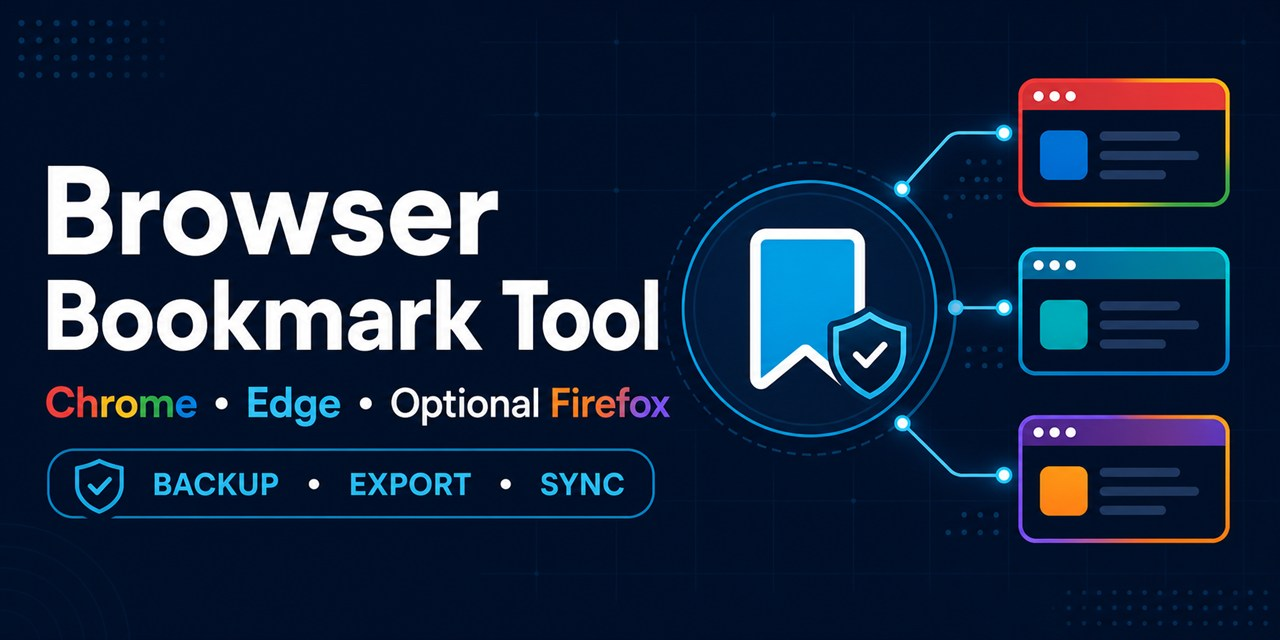
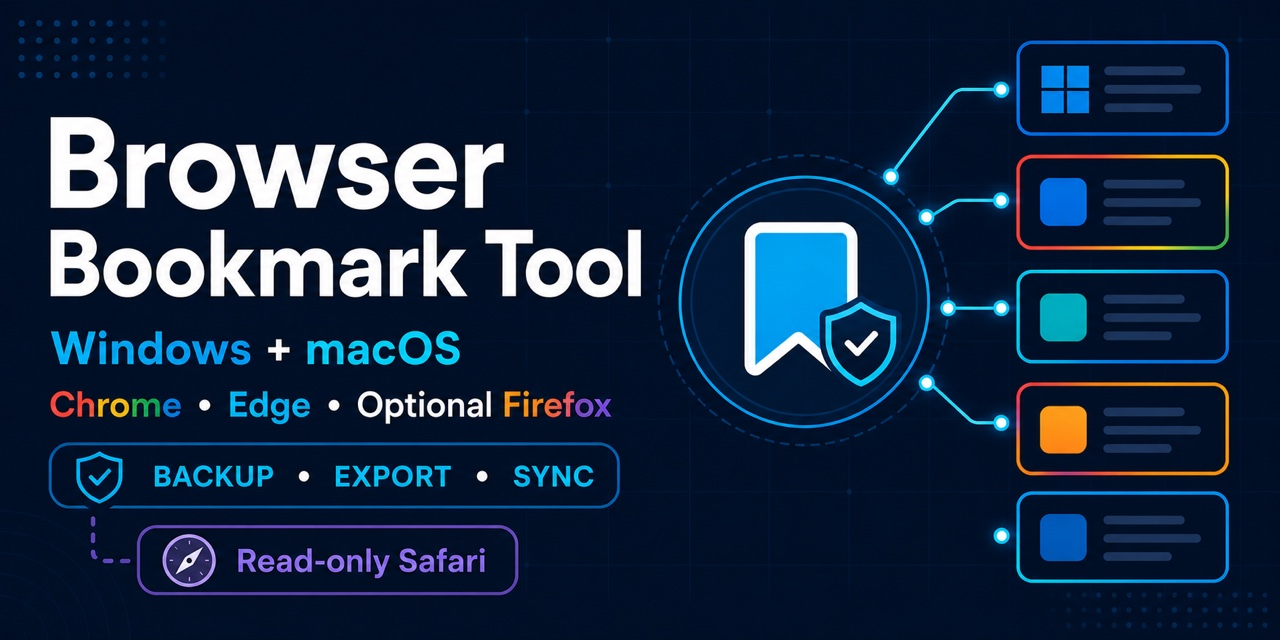
Update macOS and Safari coverage (#16)
## Summary

- replace the repository social preview with a 1280×640 image showing
Windows and macOS coverage
- identify Safari as a read-only workflow rather than a synchronization
write target
- add an explicit platform/browser support matrix
- update support, contribution, issue, and pull-request guidance for
macOS
- add a cache-busting README image reference so GitHub renders the
refreshed asset

## Why

The repository implemented native macOS support and read-only Safari
workflows, but several public-facing files and the existing social
preview still described or depicted Windows-only coverage. The live
README continued to show that older committed image because the
refreshed asset existed only locally.

## Validation

- 154 tests passed
- Ruff passed
- Python compilation passed
- macOS shell launcher smoke test passed
- `git diff --check` passed
- social preview verified as JPEG, 1280×640, 209,513 bytes

Changed region(s): [[0.0312, 0.0625, 0.9688, 0.9375]]

diff --git a/CONTRIBUTING.md b/CONTRIBUTING.md
@@ -1,6 +1,6 @@
 # Contributing
 
-Browser Bookmark Tool is a Windows-only Python application. Contributions should preserve its backup-first, add-only synchronization behavior unless a change explicitly redesigns that contract.
+Browser Bookmark Tool is a Windows and macOS Python application. It supports Chrome and Edge synchronization, optional Firefox import/export, and read-only Safari workflows on macOS. Contributions should preserve its backup-first, add-only synchronization behavior and Safari's no-write boundary unless a change explicitly redesigns those contracts.
 
 ## Before opening an issue
 
@@ -15,9 +15,11 @@ Browser Bookmark Tool is a Windows-only Python application. Contributions should
 py -m pip install -e ".[dev]"
 py -m pytest -q
 py -m ruff check .
-py -m py_compile browser_bookmark_sync.py test_sync.py
+py -m py_compile browser_bookmark_sync.py safari_adapter.py test_sync.py
 py -m browser_bookmark_sync --help
 ```
+
+On macOS, use `python3` in place of `py` and run `./run-browser-bookmark-tool.sh --help` as an additional launcher check.
 
 Run the standalone build when a change affects packaging, startup, or command-line behavior:
 
@@ -47,7 +49,7 @@ Release tags use `vMAJOR.MINOR.PATCH`, such as `v0.3.0`.
 - Add or update tests for behavior changes.
 - Update `README.md`, `assessment.md`, and `changelog.md` when behavior, configuration, packaging, or project status changes.
 - Update `future-upgrades.md` and `completed-upgrades.md` when a tracked upgrade is completed.
-- Confirm the Windows CI workflow passes on every supported Python version.
+- Confirm the cross-platform CI workflow passes, including the Windows Python matrix and native macOS test/build job.
 - Do not commit generated executables, build output, browser data, mappings, logs, results, health history, or scheduler files.
 
 Pull requests are squash merged. Write the title so it can serve as the final commit message.

diff --git a/README.md b/README.md
@@ -1,6 +1,6 @@
 # Browser Bookmark Tool
 
-![Browser Bookmark Tool social preview](.github/social-preview.jpg)
+![Browser Bookmark Tool — Windows and macOS with read-only Safari support](.github/social-preview.jpg?v=20260810)
 
 [![Cross-platform CI](https://github.com/mickpletcher/browser-bookmark-tool/actions/workflows/ci.yml/badge.svg)](https://github.com/mickpletcher/browser-bookmark-tool/actions/workflows/ci.yml)
 [![License: MIT](https://img.shields.io/badge/license-MIT-blue.svg)](LICENSE)
@@ -16,6 +16,13 @@ Version: 0.3.0
 Release readiness: Source ready; trusted signing credential required for binary release
 
 The GUI, CLI, transactional workflow, browser safeguards, shell and PowerShell entrypoints, schedulers, and native smoke builds remain implemented across the supported platforms. They can also discover, preview, back up, organize, merge, and export Safari bookmarks on macOS without writing to Safari. Direct Safari writes remain open under `FUT-011`. Safari may synchronize bookmark changes through iCloud; this delivery does not attempt any Safari or iCloud modification. Windows signing and macOS signing/notarization remain distribution requirements.
+
+| Platform | Chrome and Edge | Firefox | Safari | Distribution |
+| --- | --- | --- | --- | --- |
+| Windows 11 | Backup, export, and synchronization | Optional import/export, verification, and restore | Not applicable | Source ready; signed binary pending |
+| macOS | Backup, export, and synchronization | Optional import/export, verification, and restore | Read-only discovery, backup, preview, merge/export, and guided manual HTML import | Source ready; signed/notarized binary pending |
+
+Safari is not a synchronization write target. The tool does not modify `Bookmarks.plist`, control Safari, or write through an undocumented Apple interface.
 
 - [Current assessment](assessment.md)
 - [Changelog](changelog.md)

diff --git a/SUPPORT.md b/SUPPORT.md
@@ -6,9 +6,9 @@ Read [README.md](README.md) and [SCHEDULING.md](SCHEDULING.md) first. If the pro
 
 Include:
 
-- Windows version
+- Operating system and version (Windows or macOS)
 - Python version or standalone executable version
-- Chrome, Edge, and Firefox versions when applicable
+- Chrome, Edge, Firefox, and Safari versions when applicable
 - The command or GUI action used
 - Expected and actual behavior
 - Sanitized error text
@@ -17,7 +17,11 @@ Do not attach browser `Bookmarks` files, backup files, profile mappings, schedul
 
 ## Scope
 
-The current release supports Chrome and Microsoft Edge on Windows, plus disabled-by-default Firefox import and opt-in export. Native macOS and Safari support are not implemented. Direct Firefox recovery verification and restore remain planned work in [future-upgrades.md](future-upgrades.md).
+The current release supports Chrome and Microsoft Edge on Windows and macOS, plus disabled-by-default Firefox import and opt-in export on both platforms. Firefox recovery verification and restore are also supported on Windows and macOS.
+
+On macOS, Safari support is deliberately read-only: the tool can discover, validate, back up, preview, organize, merge, and export bookmarks from Safari's version 1 bookmark plist. It excludes Reading List entries and can prepare a validated HTML file for a user-controlled Safari import. It never edits Safari's live data or automates the final import. Direct Safari writes and signed/notarized macOS distribution remain planned work in [future-upgrades.md](future-upgrades.md).
+
+Source installations are supported on Windows 11 and current supported macOS releases. CI tests both platforms and creates native smoke builds. Public binaries are not available until the applicable platform signing requirements are complete.
 
 Support is best effort. There is no guaranteed response time.
 

diff --git a/.github/pull_request_template.md b/.github/pull_request_template.md
@@ -6,12 +6,14 @@ Describe the change and why it is needed.
 
 - [ ] `py -m pytest -q`
 - [ ] `py -m ruff check .`
-- [ ] `py -m py_compile browser_bookmark_sync.py test_sync.py`
+- [ ] `py -m py_compile browser_bookmark_sync.py safari_adapter.py test_sync.py`
 - [ ] `py -m browser_bookmark_sync --help`
+- [ ] On macOS: `./run-browser-bookmark-tool.sh --help`
 - [ ] Standalone build checked when packaging, startup, or CLI behavior changed
 
 ## Safety and documentation
 
 - [ ] No bookmark data, local paths, credentials, private configuration, logs, or generated artifacts are included
 - [ ] Backup-first and no-deletion synchronization behavior is preserved or explicitly documented
+- [ ] Safari remains read-only unless a separately reviewed design explicitly changes that safety boundary
 - [ ] README, assessment, changelog, and upgrade tracking were updated where required

diff --git a/changelog.md b/changelog.md
@@ -8,6 +8,8 @@ This project follows [Keep a Changelog](https://keepachangelog.com/en/1.1.0/) an
 
 ### Added
 
+- Added an explicit Windows/macOS browser-support matrix and updated the repository social preview, support, contribution, bug-report, and pull-request guidance to reflect native macOS coverage and Safari's read-only safety boundary.
+
 - Added guided, user-controlled Safari HTML import preparation in the GUI and CLI without editing Safari or automating the final import.
 - Recorded successful physical-Mac validation of 285 bookmarks and 61 folders, manifest integrity, and an unchanged live Safari plist hash.
 
